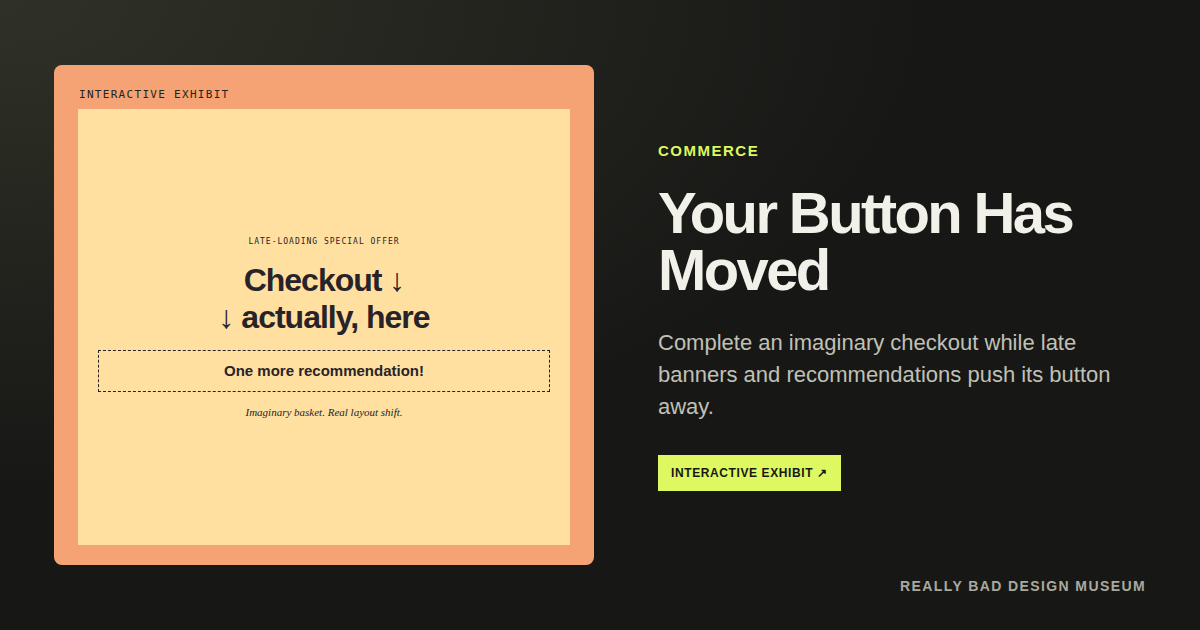
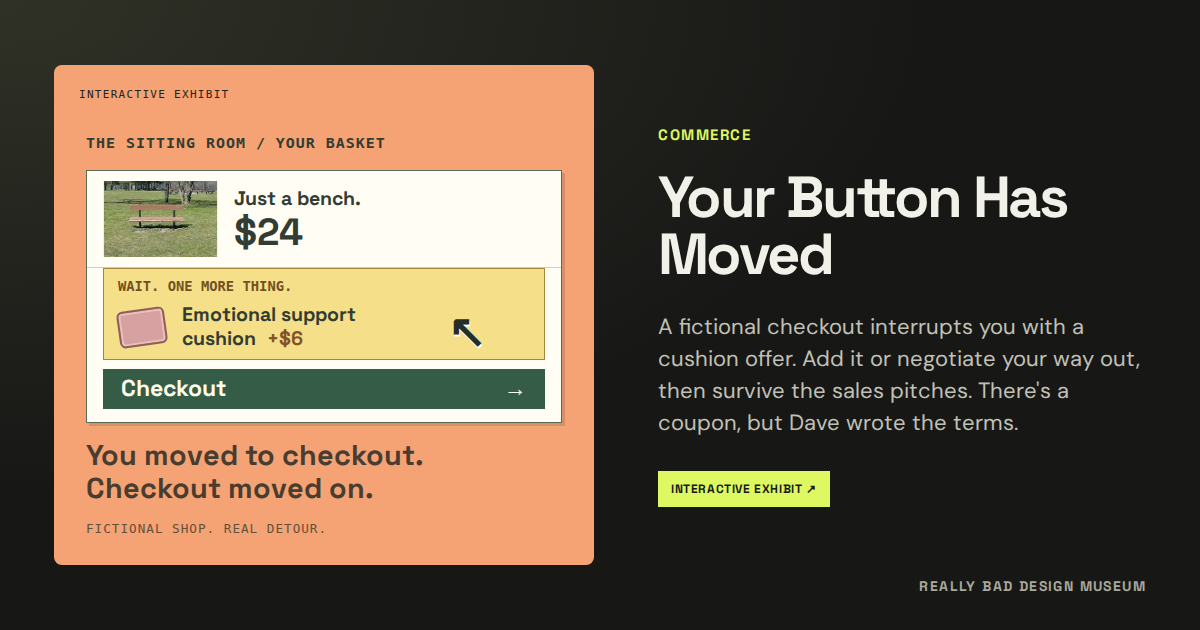
update checkout page thumbnail

diff --git a/exhibits/commerce-and-messaging.js b/exhibits/commerce-and-messaging.js
@@ -2,7 +2,7 @@
 import { createStageShell, createDemoStatus } from "./shared.js";
 
 export const exhibits = [
-  { id: "layout-checkout", name: "Your Button Has Moved", category: "Commerce", color: "orange", tagline: "You wanted a bench. Dave ordered 900.", description: "A fictional checkout interrupts you with a cushion offer. Add it or negotiate your way out, then survive the sales pitches. There's a coupon, but Dave wrote the terms.", lesson: "You came to buy a bench. Now you're negotiating over a cushion and managing Dave's emotions. Repeated interruptions and unexplained totals make checkout impossible to trust.", fix: "Just the bench means just the bench. No compulsory extras, surprise fees, or negotiations with Dave.", worseChange: "Dave suggests personalized delivery options.", preview: '<div class="new-preview marketing-preview marketing-preview-checkout"><span>PLEASE BE SEATED.</span><strong>Checkout ↓<br>Add to cart</strong><div>Your bench needs accessories.</div><small>One seat. Several sales pitches.</small></div>', render: renderLayoutCheckout },
+  { id: "layout-checkout", name: "Your Button Has Moved", category: "Commerce", color: "orange", tagline: "You wanted a bench. Dave ordered 900.", description: "A fictional checkout interrupts you with a cushion offer. Add it or negotiate your way out, then survive the sales pitches. There's a coupon, but Dave wrote the terms.", lesson: "You came to buy a bench. Now you're negotiating over a cushion and managing Dave's emotions. Repeated interruptions and unexplained totals make checkout impossible to trust.", fix: "Just the bench means just the bench. No compulsory extras, surprise fees, or negotiations with Dave.", worseChange: "Dave suggests personalized delivery options.", preview: '<div class="new-preview checkout-thumbnail"><span class="checkout-thumb-brand">THE SITTING ROOM / YOUR BASKET</span><div class="checkout-thumb-stage"><div class="checkout-thumb-product"><img src="/assets/bench.jpg" alt="" width="250" height="167"><div><b>Just a bench.</b><strong>$24</strong></div></div><div class="checkout-thumb-offer"><span>WAIT. ONE MORE THING.</span><div><i class="checkout-thumb-cushion"></i><b>Emotional support<br>cushion <em>+$6</em></b></div></div><div class="checkout-thumb-button">Checkout <span>→</span></div><span class="checkout-thumb-cursor">↖</span></div><small class="checkout-thumb-punchline">You moved to checkout.<br>Checkout moved on.</small><span class="checkout-thumb-fiction">FICTIONAL SHOP. REAL DETOUR.</span></div>', render: renderLayoutCheckout },
   { id: "ai-store", name: "The AI Everything Store", category: "Commerce", color: "blue", tagline: "Your spoon now requires a prompt.", description: "Buy ordinary objects through unnecessary AI onboarding and subscriptions.", lesson: "The spoon was already good at soup, but it lacked a growth strategy. It now has onboarding, calibration, and recurring revenue.", fix: "The spoon is a spoon again. It appears relieved.", worseChange: "The object would like to get to know you. Repeatedly.", preview: `<div class="thumb-scene thumb-ai"><span class="thumb-kicker">THE SPOON, REIMAGINED.</span><div class="thumb-spoon-product"><div class="thumb-silver-spoon" role="img" aria-label="An ordinary silver spoon"><i></i><b></b></div><div class="thumb-spoon-offer"><span>SPOON + AI</span><strong>$19.99</strong><small>/ month*</small><b>Calibration<br>required</b></div></div><small class="thumb-footer">Soup not included.</small><span class="thumb-fictional-plan">*FICTIONAL PLAN. ORDINARY SPOON.</span></div>`, render: renderAiStore },
   { id: "shrinking-unsubscribe", name: "The Shrinking Unsubscribe Button", category: "Commerce", color: "pink", tagline: "Your subscription grows. Your exit shrinks.", description: "A fictional subscription with a cancel button that shrinks and relocates as you approach.", lesson: "The cancellation button is shy and needs space. Unfortunately, it interprets the pointer as direct eye contact.", fix: "The button completed a confidence workshop and can now be approached safely.", worseChange: "The exit gets smaller, faster, and increasingly committed to not being found.", preview: `<div class="thumb-scene thumb-shrinking"><span class="thumb-kicker">YOUR PLAN STAYS FULL-SIZE</span><strong class="thumb-plan-price">$49<span>/ month*</span></strong><div class="thumb-exit-trail"><span class="thumb-exit-ghost">Unsubscribe</span><span class="thumb-exit-smaller">Unsubscribe</span><span class="thumb-exit-tiny">Unsubscribe</span><i aria-hidden="true">↖</i></div><small class="thumb-footer">*Pretend plan. Disappearing exit.</small></div>`, render: renderShrinkingUnsubscribe },
   { id: "physics-cart", category: "Commerce", color: "orange", name: "The Physics Shopping Cart", tagline: "Your basket has checkout momentum.", description: "Every product makes a wheeled cart roll faster toward an entirely imaginary purchase.", lesson: "Every purchase has momentum, especially downhill. Adding a second item is considered informed acceleration.", fix: "The basket has been fitted with brakes and a separate checkout button.", worseChange: "The hill gets steeper. Something inconvenient has appeared halfway down.", preview: '<div class="thumb-scene thumb-cart"><span class="thumb-kicker">YOUR CART IS CHECKING ITSELF OUT</span><div class="thumb-cart-hill"><div class="thumb-cart-slope"></div><div class="thumb-rolling-cart"><div class="thumb-cart-basket"><b></b><b></b></div><i></i><i></i></div><span class="thumb-cart-speed" aria-hidden="true">→ →</span><span class="thumb-checkout-zone">BUY<br>NOW*</span><span class="thumb-brake-label">BRAKE!</span></div><small class="thumb-footer">*Pretend checkout. Real downhill energy.</small></div>', render: renderPhysicsCart },

diff --git a/exhibits.css b/exhibits.css
@@ -480,7 +480,31 @@
 @keyframes thumb-rejection-arrives{0%,20%{opacity:0}35%,100%{opacity:1}}
 @keyframes thumb-answers-struck{0%,40%{text-decoration-color:transparent}55%,100%{text-decoration-color:#b02f3c}}
 @keyframes thumb-wrong-window{0%,15%{translate:0 0}40%,55%{translate:0 -.8em}80%,100%{translate:0 -1.6em}}
+.card-art:has(>.checkout-thumbnail){container:checkout-art / inline-size}
+.new-preview.checkout-thumbnail{inset:36px 18px 10px;display:flex;justify-content:center;gap:.55em;text-align:left;color:#323c32;font:11px/1.3 var(--body);letter-spacing:0}
+.checkout-thumbnail *{letter-spacing:0;box-sizing:border-box}
+.checkout-thumbnail>.checkout-thumb-brand{font:700 .65em/1.4 monospace;padding-right:26px}
+.checkout-thumb-stage{height:11em;position:relative;background:#fffdf4;border:1px solid #596b59;box-shadow:3px 3px #78563840;flex-shrink:0}
+.checkout-thumb-product{height:4.2em;display:flex;align-items:center;gap:.7em;padding:.45em .7em;border-bottom:1px solid #cbd1bc}
+.checkout-thumb-product>img{width:5em;height:3.3em;object-fit:contain;background:#edf0e8;flex:none}
+.checkout-thumb-product>div{display:flex;flex-direction:column;gap:.15em}.checkout-thumb-product b{font:700 .85em var(--heading)}.checkout-thumb-product strong{font:700 1.65em/1 var(--heading)}
+.checkout-thumb-offer{position:absolute;top:4.2em;left:.7em;right:.7em;height:4em;background:#f5df88;border:1px solid #a78639;padding:.4em .6em;transform-origin:top center}
+.checkout-thumb-offer>span{display:block;font:700 .6em/1.3 monospace;color:#715123}
+.checkout-thumb-offer>div{display:flex;align-items:center;gap:.7em;margin-top:.3em}.checkout-thumb-offer b{font:700 .85em/1.25 var(--heading)}.checkout-thumb-offer em{font-style:normal;color:#855128;margin-left:.3em}
+.checkout-thumb-cushion{width:2.1em;height:1.6em;flex:none;border:2px solid #8e5f5c;border-radius:6px;background:#d7a0a1;box-shadow:inset 0 0 0 2px #eac1b9;transform:rotate(-8deg)}
+.checkout-thumb-button{position:absolute;top:8.6em;left:.7em;right:.7em;height:1.75em;padding:.3em .8em;background:#355c47;color:#fffceb;font:700 1em/1.1 var(--heading);display:flex;align-items:center;justify-content:space-between}
+.checkout-thumb-cursor{position:absolute;top:5.5em;right:1.6em;font:700 2em/1 Georgia;color:#252d28;text-shadow:1px 2px #fff;transform:translateY(-2.5em)}
+.checkout-thumbnail>.checkout-thumb-punchline{font:700 1.25em/1.15 var(--heading);color:#483d30}
+.checkout-thumbnail>.checkout-thumb-fiction{font:.55em/1.3 monospace;color:#625039}
+@container checkout-art (max-width:260px){.new-preview.checkout-thumbnail{font-size:10px;gap:.4em}.checkout-thumbnail>.checkout-thumb-punchline{font-size:1.15em}}
+@container checkout-art (min-width:480px){.new-preview.checkout-thumbnail{inset:65px 32px 24px;font-size:23px;gap:.7em}.checkout-thumbnail>.checkout-thumb-brand{padding-right:0}}
+@keyframes thumb-checkout-offer{0%,24%{opacity:0;transform:translateY(-.5em) scaleY(.1)}45%,100%{opacity:1;transform:none}}
+@keyframes thumb-checkout-moves{0%,24%{transform:translateY(-4.1em)}45%,100%{transform:none}}
+@keyframes thumb-checkout-miss{0%{opacity:0;transform:translate(.6em,-1.7em)}20%,100%{opacity:1;transform:translateY(-2.5em)}}
 @media(prefers-reduced-motion:no-preference){
+  .exhibit-card:is(:hover,:focus-visible,.thumb-scroll-active) .checkout-thumb-offer{animation:thumb-checkout-offer 1.7s ease-out both}
+  .exhibit-card:is(:hover,:focus-visible,.thumb-scroll-active) .checkout-thumb-button{animation:thumb-checkout-moves 1.7s ease-out both}
+  .exhibit-card:is(:hover,:focus-visible,.thumb-scroll-active) .checkout-thumb-cursor{animation:thumb-checkout-miss 1.7s ease-out both}
   .exhibit-card:is(:hover,:focus-visible,.thumb-scroll-active) .earthquake-preview-ad{transform-origin:top center;animation:thumb-ad-expands 1.4s ease-out both}
   .exhibit-card:is(:hover,:focus-visible,.thumb-scroll-active) .earthquake-preview-link{animation:thumb-article-displaced 1.4s ease-out both}
   .exhibit-card:is(:hover,:focus-visible,.thumb-scroll-active) .hover-preview-cursor{animation:thumb-bridge-miss 1.5s ease-in-out both}
